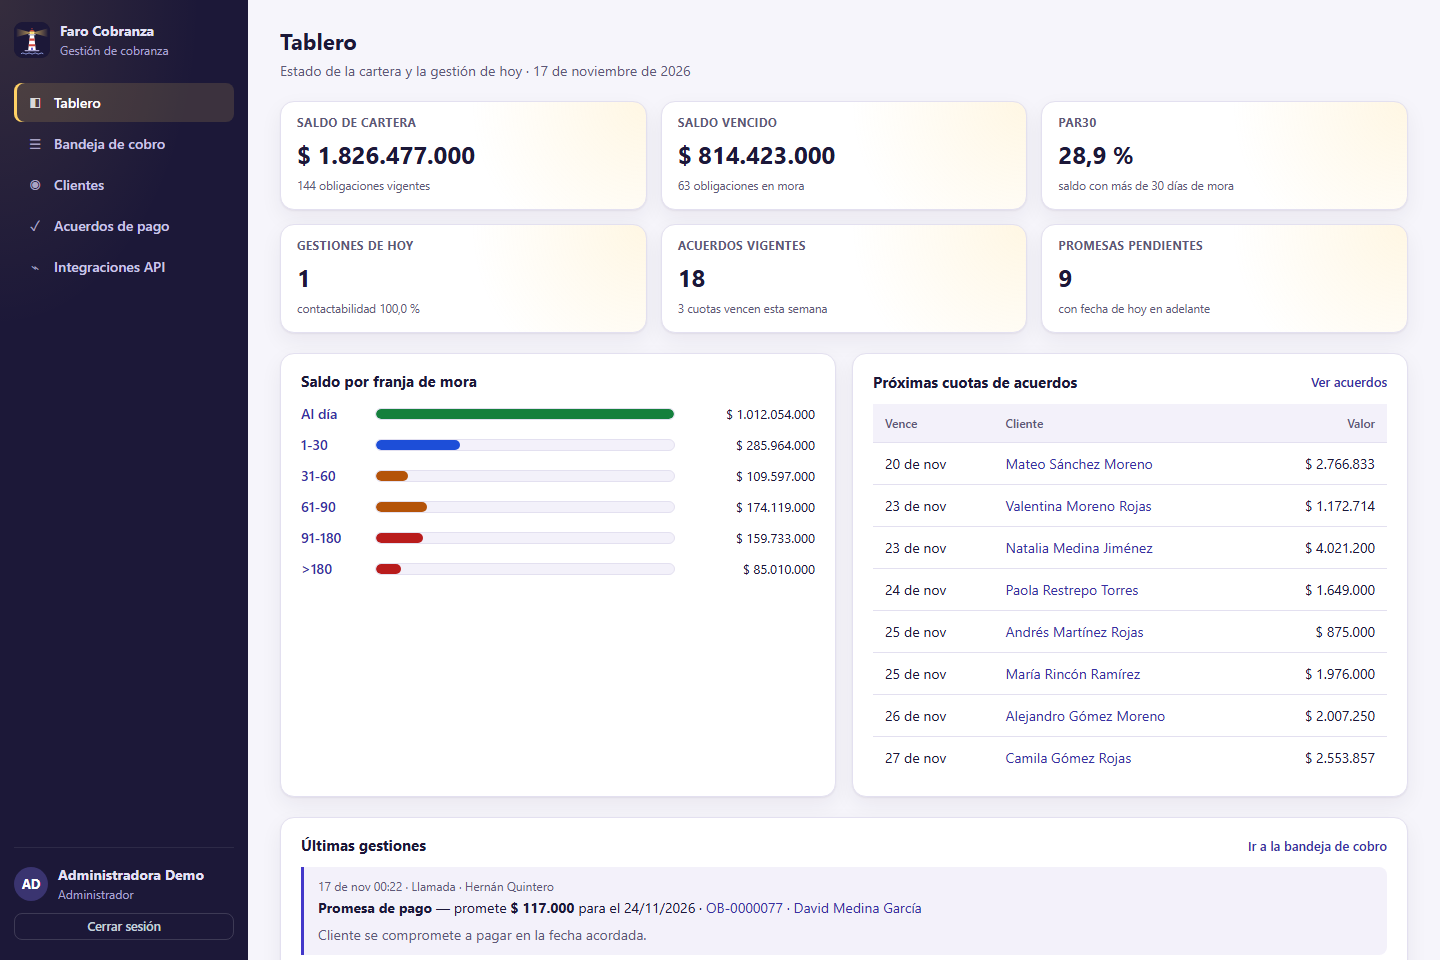
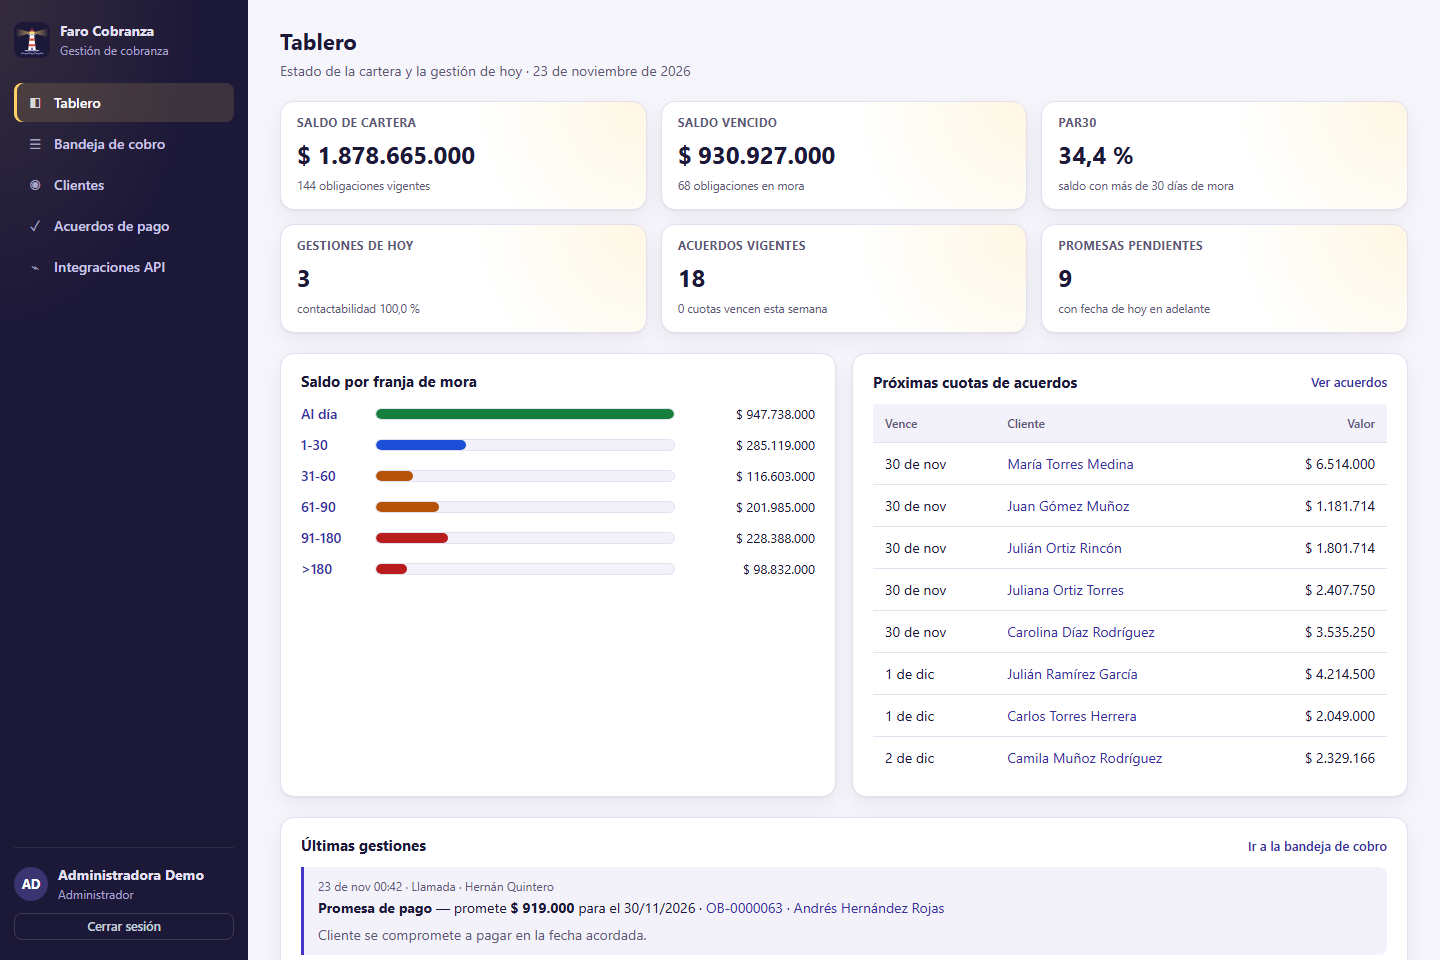
fix: datos de demostración ficticios, mora posterior al desembolso y puma 8.1.2
- Cédulas con prefijo 99 y celulares con prefijo 399 en seeds, pruebas y
  ayudas de los formularios: no corresponden a personas ni líneas reales.
- Una obligación ya no puede quedar en mora antes de su desembolso (validación
  y seeds corregidos); capturas de docs/images regeneradas.
- puma 8.1.2 por dos avisos de seguridad de la 8.1.1.

diff --git a/test/models/client_test.rb b/test/models/client_test.rb
@@ -2,12 +2,12 @@ require "test_helper"
 
 class ClientTest < ActiveSupport::TestCase
   test "normaliza documento, nombre, correo y teléfono" do
-    client = Client.new(document_number: "1.098.765.432", full_name: "  LAURA   gómez ",
-                        email: " Laura@Correo.TEST ", phone: "(300) 123-4567")
-    assert_equal "1098765432", client.document_number
+    client = Client.new(document_number: "9.998.765.432", full_name: "  LAURA   gómez ",
+                        email: " Laura@Correo.TEST ", phone: "(399) 000-1234")
+    assert_equal "9998765432", client.document_number
     assert_equal "Laura Gómez", client.full_name
     assert_equal "laura@correo.test", client.email
-    assert_equal "3001234567", client.phone
+    assert_equal "3990001234", client.phone
   end
 
   test "valida formato de documento, ciudad del catálogo y unicidad" do
@@ -22,13 +22,13 @@ class ClientTest < ActiveSupport::TestCase
   end
 
   test "busca por prefijo de documento o por nombre sin importar mayúsculas" do
-    assert_equal [ clients(:laura) ], Client.search("1012").to_a
-    assert_equal [ clients(:laura) ], Client.search("1.012.345").to_a
+    assert_equal [ clients(:laura) ], Client.search("9912").to_a
+    assert_equal [ clients(:laura) ], Client.search("9.912.345").to_a
     assert_equal [ clients(:andres) ], Client.search("pérez").to_a
     assert_equal Client.count, Client.search("").count
   end
 
   test "usa el documento como parámetro de URL" do
-    assert_equal "1012345678", clients(:laura).to_param
+    assert_equal "9912345678", clients(:laura).to_param
   end
 end

diff --git a/db/seeds.rb b/db/seeds.rb
@@ -26,14 +26,16 @@ ActiveRecord::Base.transaction do
   documents = Set.new
   clients = 120.times.map do
     document = loop do
-      candidate = rng.rand(1_000_000_000..1_199_999_999).to_s
+      # Prefijo 99: fuera del rango de cédulas expedidas, para no coincidir con personas reales.
+      candidate = rng.rand(9_900_000_000..9_999_999_999).to_s
       break candidate if documents.add?(candidate)
     end
     Client.create!(
       document_number: document,
       full_name: "#{pick.(FIRST_NAMES)} #{pick.(LAST_NAMES)} #{pick.(LAST_NAMES)}",
       email: rng.rand < 0.8 ? "cliente#{document[-4..]}@correo.test" : nil,
-      phone: rng.rand < 0.9 ? "3#{rng.rand(100_000_000..199_999_999)}" : nil,
+      # Prefijo 399: no está asignado a ningún operador móvil en Colombia.
+      phone: rng.rand < 0.9 ? "399#{rng.rand(1_000_000..9_999_999)}" : nil,
       city: Client::CITIES[[ 0, 0, 0, 1, 1, 2, 3, 4, 5, 6, 7 ].sample(random: rng)],
       segment: %w[masivo masivo masivo preferente pyme].sample(random: rng)
     )
@@ -51,7 +53,8 @@ ActiveRecord::Base.transaction do
         principal_balance: (rng.rand(800_000..25_000_000) / 1000) * 1000,
         past_due_since: days.positive? ? Date.current - days : nil,
         status: days.positive? ? :delinquent : :current,
-        disbursed_on: Date.current - rng.rand(120..1_200)
+        # La mora empieza después del desembolso: se cuenta hacia atrás desde el primer impago.
+        disbursed_on: Date.current - days - rng.rand(60..1_100)
       )
     end
   end

diff --git a/app/models/obligation.rb b/app/models/obligation.rb
@@ -33,6 +33,7 @@ class Obligation < ApplicationRecord
   validates :principal_balance, numericality: { greater_than_or_equal_to: 0 }
   validates :days_past_due, numericality: { only_integer: true, greater_than_or_equal_to: 0 }
   validates :disbursed_on, presence: true
+  validate :past_due_after_disbursement
 
   # Los días de mora se derivan de past_due_since (vencimiento impago más antiguo); la columna
   # days_past_due es un valor materializado para ordenar e indexar, que RefreshDelinquencyJob
@@ -82,5 +83,12 @@ class Obligation < ApplicationRecord
   private
     def derive_days_past_due
       self.days_past_due = self.class.days_past_due_on(past_due_since)
+    end
+
+    # La mora empieza con una cuota impaga: no puede ser anterior al desembolso del crédito.
+    def past_due_after_disbursement
+      return unless past_due_since && disbursed_on && past_due_since < disbursed_on
+
+      errors.add(:past_due_since, :before_disbursement)
     end
 end

diff --git a/test/controllers/web_flows_test.rb b/test/controllers/web_flows_test.rb
@@ -19,15 +19,15 @@ class WebFlowsTest < ActionDispatch::IntegrationTest
   end
 
   test "búsqueda de clientes por documento" do
-    get clients_path, params: { q: "1012" }
+    get clients_path, params: { q: "9912" }
     assert_response :success
     assert_select "turbo-frame#clients td", text: "Laura Gómez Ríos"
     assert_select "turbo-frame#clients td", text: "Andrés Pérez Duarte", count: 0
   end
 
   test "crear cliente normaliza el documento y valida" do
-    post clients_path, params: { client: { document_number: "52.123.456", full_name: "nuevo cliente", city: "Cali", segment: "pyme" } }
-    client = Client.find_by!(document_number: "52123456")
+    post clients_path, params: { client: { document_number: "99.123.456", full_name: "nuevo cliente", city: "Cali", segment: "pyme" } }
+    client = Client.find_by!(document_number: "99123456")
     assert_redirected_to client_path(client)
     assert_equal "Nuevo Cliente", client.full_name
 

diff --git a/test/models/obligation_test.rb b/test/models/obligation_test.rb
@@ -26,6 +26,16 @@ class ObligationTest < ActiveSupport::TestCase
     assert_equal 0, Obligation.days_past_due_on(Date.current + 5), "un vencimiento futuro no genera mora"
   end
 
+  test "la mora no puede empezar antes del desembolso" do
+    obligation = obligations(:laura_loan)
+    obligation.past_due_since = obligation.disbursed_on - 1
+    assert_not obligation.valid?
+    assert_includes obligation.errors[:past_due_since], "no puede ser anterior a la fecha de desembolso"
+
+    obligation.past_due_since = obligation.disbursed_on + 30
+    assert obligation.valid?
+  end
+
   test "calcula el mínimo para un acuerdo con la política de cobertura" do
     assert_equal BigDecimal("1470000"), obligations(:laura_card).minimum_agreement_amount
   end

diff --git a/app/models/client.rb b/app/models/client.rb
@@ -8,7 +8,7 @@ class Client < ApplicationRecord
   enum :segment, { masivo: "masivo", preferente: "preferente", pyme: "pyme" },
     default: :masivo, validate: true
 
-  # "1.012.345.678" o "CC 1012345678" -> "1012345678"
+  # "9.912.345.678" o "CC 9912345678" -> "9912345678"
   normalizes :document_number, with: ->(value) { value.to_s.gsub(/\D/, "") }
   normalizes :full_name, with: ->(value) { value.squish.split.map(&:capitalize).join(" ") }
   normalizes :email, with: ->(value) { value.strip.downcase.presence }

diff --git a/test/integration/api/v1/api_test.rb b/test/integration/api/v1/api_test.rb
@@ -16,7 +16,7 @@ module Api
       test "lista y busca clientes con paginación" do
         get api_v1_clients_path, headers: api_headers, params: { q: "laura", per_page: 1 }
         assert_response :success
-        assert_equal [ "1012345678" ], json["data"].pluck("document_number")
+        assert_equal [ "9912345678" ], json["data"].pluck("document_number")
         assert_equal({ "page" => 1, "per_page" => 1, "total" => 1, "pages" => 1 }, json["meta"])
       end
 

diff --git a/CHANGELOG.md b/CHANGELOG.md
@@ -14,6 +14,13 @@ Formato [Keep a Changelog](https://keepachangelog.com/es-ES/1.1.0/) · [SemVer](
 - El detalle de la obligación mostraba como máximo 50 gestiones registradas en el contador.
 - `docs/openapi.yaml` usaba `nullable` (OpenAPI 3.0) en un documento 3.1.
 - `docs/deployment.md`: con `DATABASE_URL` también hacen falta `CACHE_/QUEUE_/CABLE_DATABASE_URL`.
+- Los datos de demostración podían tener mora desde antes del desembolso. El modelo ahora lo
+  valida y los seeds cuentan el desembolso hacia atrás desde el primer impago.
+- `bundler-audit` reportaba dos avisos en puma 8.1.1; se actualiza a 8.1.2.
+
+### Cambiado
+- Los datos de demostración y de pruebas usan cédulas con prefijo 99 y celulares con prefijo 399,
+  que no corresponden a personas ni a líneas reales. Capturas de `docs/images` regeneradas.
 
 ## [1.1.0] - 2026-11-13
 

diff --git a/README.md b/README.md
@@ -181,7 +181,7 @@ Client), pega el token del seed y envía las solicitudes; el acuerdo se envía d
 ## Pruebas y calidad
 
 ```bash
-bin/rails test            # 98 pruebas: modelos, servicios, job, consultas, correo, controladores y API
+bin/rails test            # 99 pruebas: modelos, servicios, job, consultas, correo, controladores y API
 bin/rails test:system     # navegador real (Chrome headless): Turbo Streams y Stimulus
 bin/rubocop               # estilo (rubocop-rails-omakase)
 bin/brakeman              # análisis estático de seguridad
